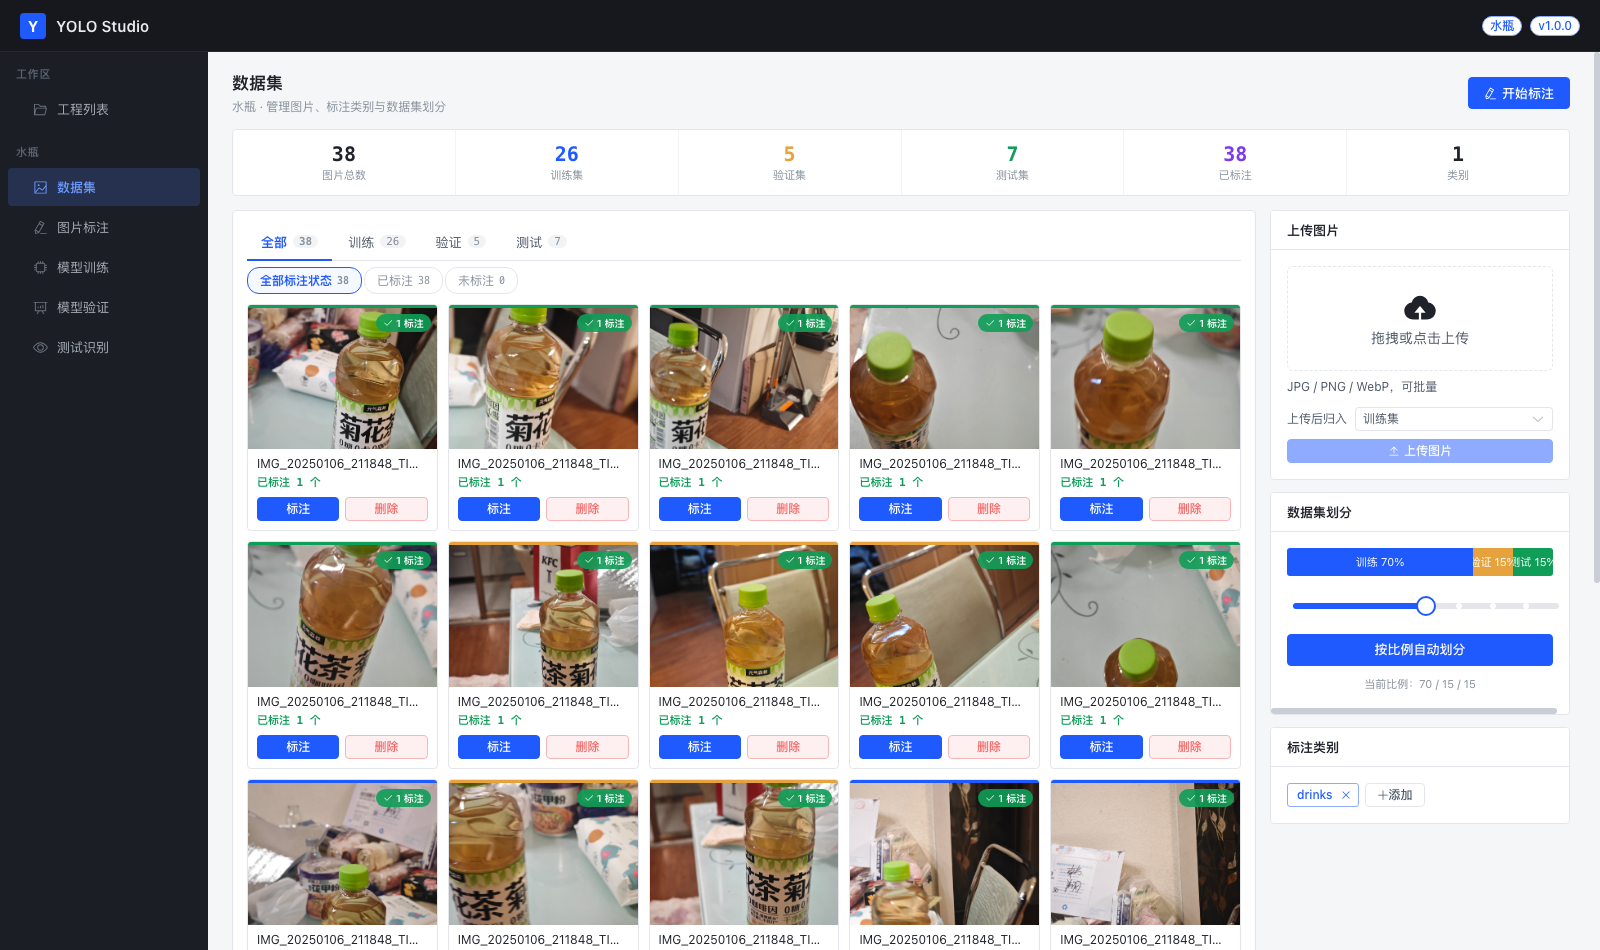
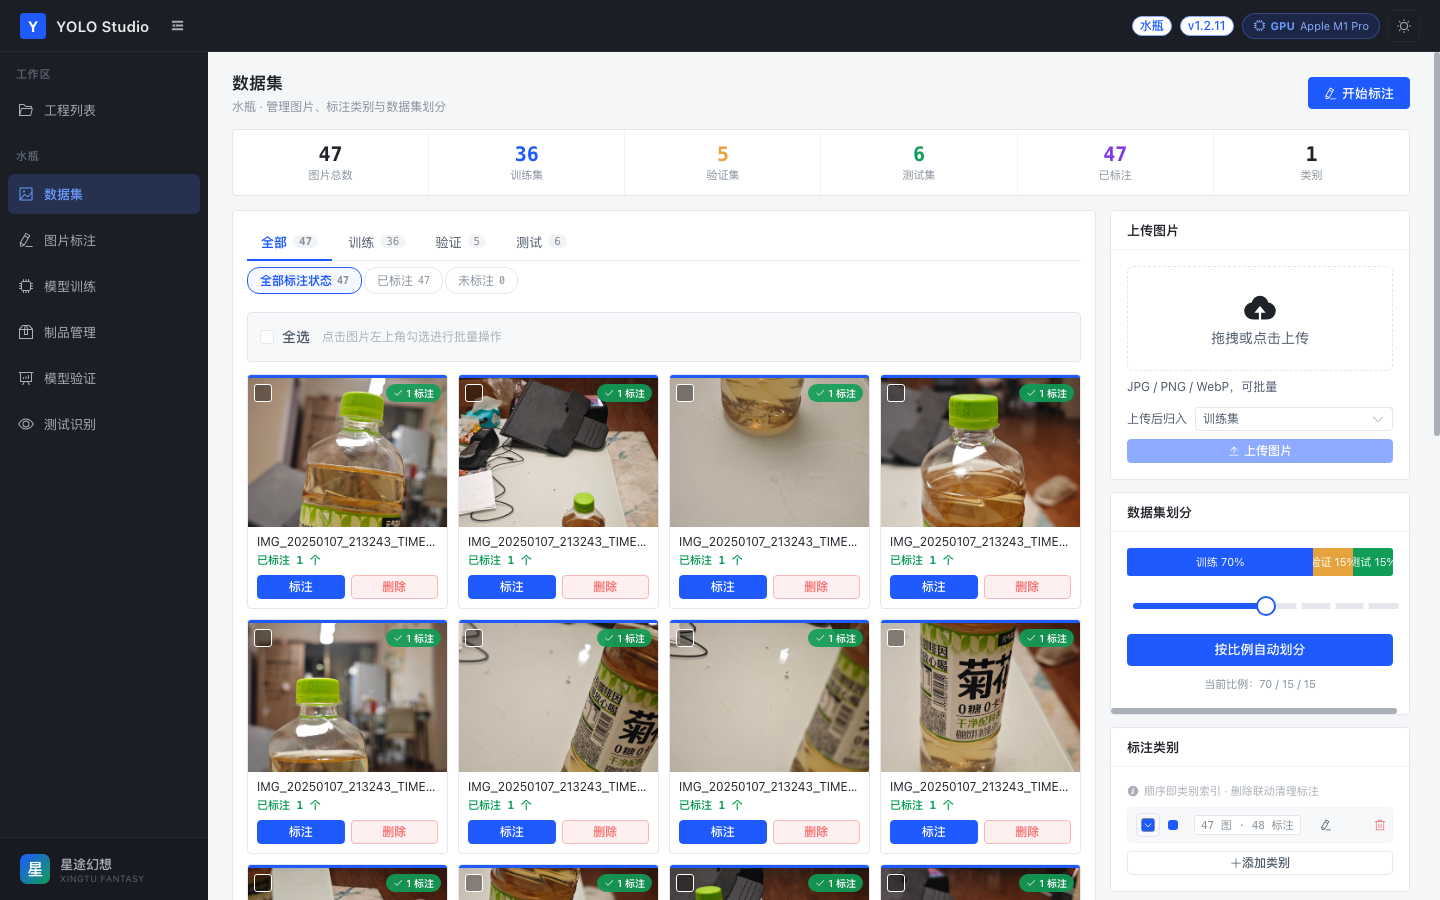
docs: 更新真实界面截图（1440×900），标注公司信息（新疆星途幻想网络科技有限公司 · 星途幻想）

diff --git a/frontend/src/views/Layout.vue b/frontend/src/views/Layout.vue
@@ -92,14 +92,14 @@
           </div>
         </div>
 
-        <!-- 底部组织标识：新疆软件园 -->
+        <!-- 底部组织标识：星途幻想 -->
         <div class="sidebar-footer" :class="{ collapsed: sidebarCollapsed }">
-          <el-tooltip content="新疆软件园" placement="right" :disabled="!sidebarCollapsed">
+          <el-tooltip content="新疆星途幻想网络科技有限公司（星途幻想）" placement="right" :disabled="!sidebarCollapsed">
             <div class="org-badge">
-              <span class="org-mark">疆</span>
+              <span class="org-mark">星</span>
               <span class="org-text" v-show="!sidebarCollapsed">
-                <span class="org-name">新疆软件园</span>
-                <span class="org-sub">XINJIANG SOFTWARE PARK</span>
+                <span class="org-name">星途幻想</span>
+                <span class="org-sub">XINGTU FANTASY</span>
               </span>
             </div>
           </el-tooltip>

diff --git a/README.md b/README.md
@@ -169,6 +169,12 @@ yolo_builder/
 
 ***
 
+## 🏢 关于
+
+YOLO Studio 由 **新疆星途幻想网络科技有限公司（星途幻想）** 开发并开源。
+
+***
+
 ## 📄 License
 
 [MIT](LICENSE)
